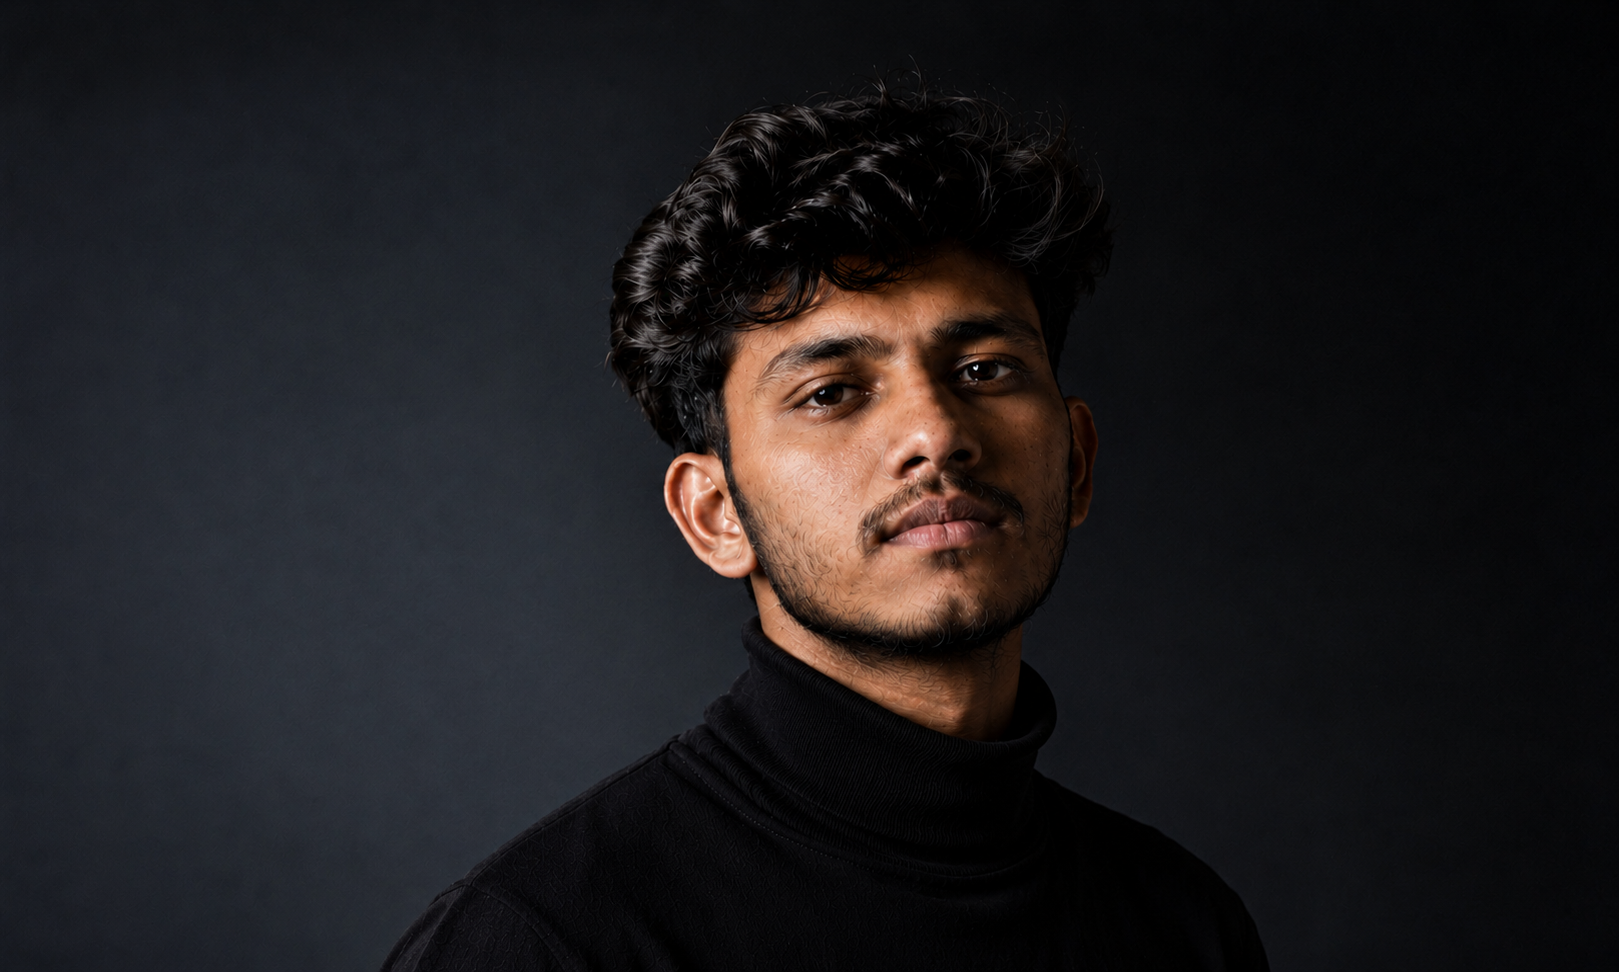
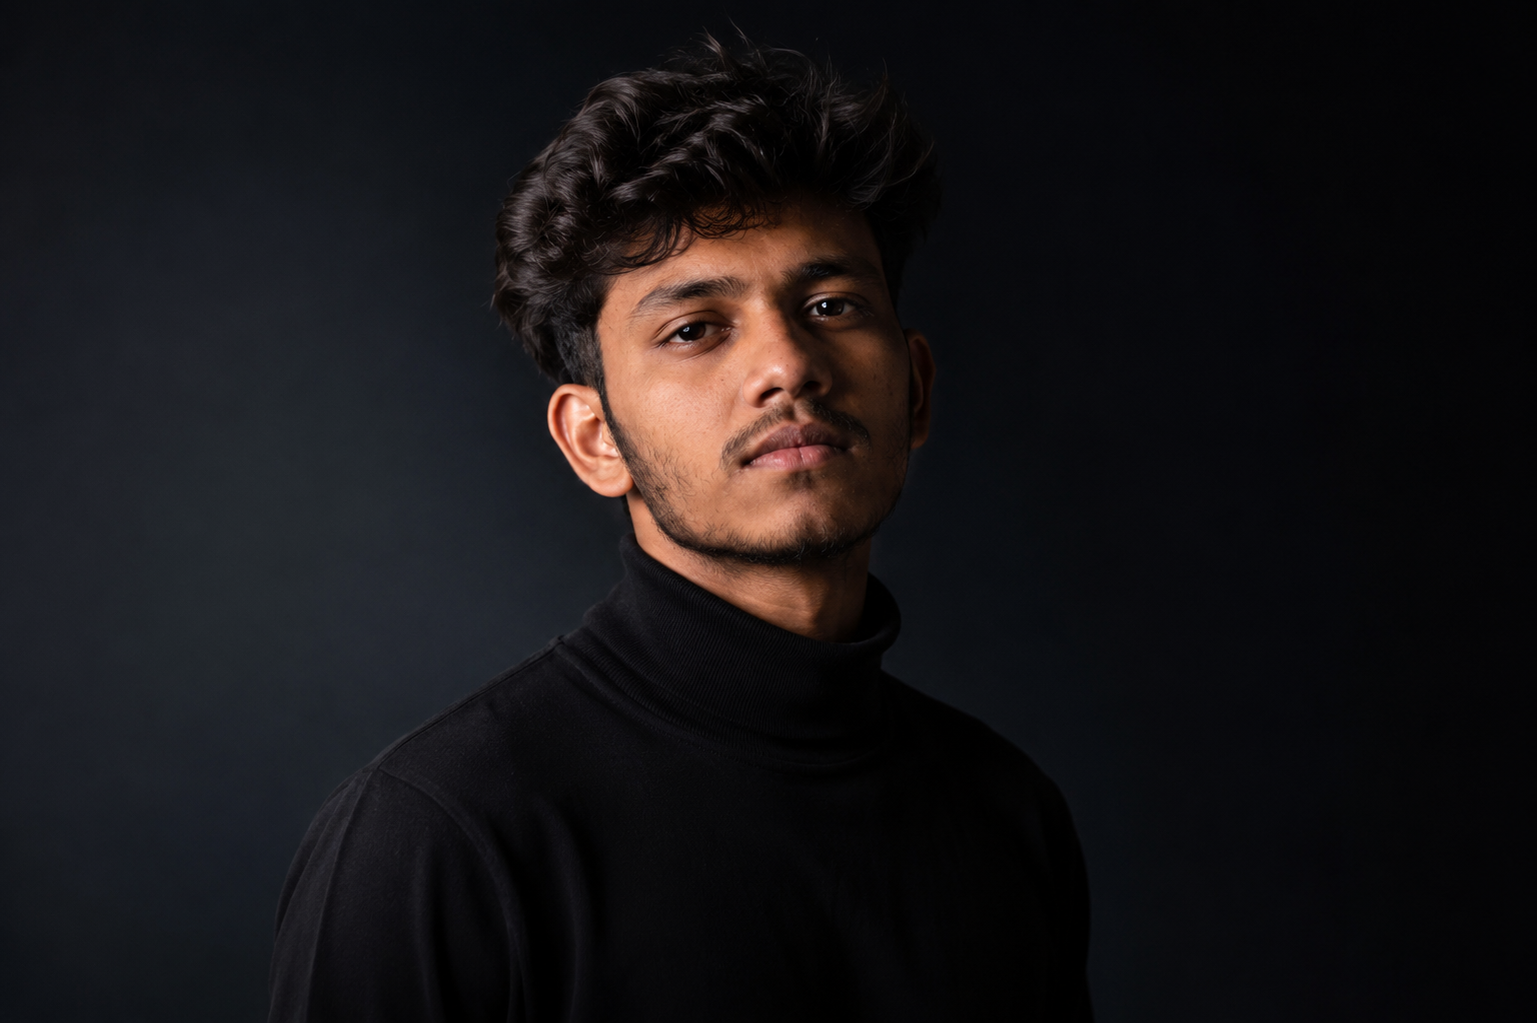
fix: rebrand to haries, paper navbar bg, Services link, always-white info bar, title Haries|portfolio

Changed region(s): [[0.1874, 0.0617, 0.6871, 1.0], [0.6246, 0.7716, 0.7183, 0.8333], [0.6246, 0.1543, 0.6558, 0.1852]]

diff --git a/src/components/layout/Navbar.jsx b/src/components/layout/Navbar.jsx
@@ -1,67 +1,46 @@
 /**
- * Navbar component — Fixed, transparent.
+ * Navbar component — Fixed with paper background.
  *
- * From Framer AI Audit:
- * ─ Fixed at the top, full-width
- * ─ Desktop/tablet: logo + primary links + menu control
- * ─ Phone: logo + menu control (links hidden)
- * ─ Enters from 60px above, starts transparent
+ * From reference screenshot:
+ * ─ Solid paper (rgb(245,245,245)) background strip at top
+ * ─ "haries®" logo left, dark text
+ * ─ "Services", "Works", "Contact" links centered, dark text
+ * ─ Dark hamburger button on the right
+ * ─ Text stays dark at all times (paper bg is always behind)
+ * ─ Enters from 60px above, delayed by 2 seconds
  * ─ Spring: stiffness 400, damping 80, mass 1
- * ─ Delayed by 2 seconds
- *
- * From Screenshot 224146.png (final state):
- * ─ "norell" logo with ® superscript, ~24px, weight 600, left-aligned
- * ─ Nav links: "About", "Works", "Contact" — ~16px, weight 500, spaced ~60-80px apart
- * ─ Hamburger button: dark near-black rounded rectangle (~48×40px), border-radius ~12px
- * ─ Three horizontal lines inside the hamburger, white, ~18px wide
- * ─ Navbar padding: ~20px vertical (total height ~80px with padding)
- * ─ Side padding matches container: 30px desktop, 20px mobile
- *
- * From Screenshot 223831.png (initial state — light bg):
- * ─ Logo and links are dark (ink color) on light background
- * ─ Hamburger button is dark with white lines
- *
- * From Screenshot 224146.png (final state — dark hero image):
- * ─ Logo and links become white on dark background
- * ─ Hamburger button stays dark with white lines
  */
 import { motion } from "framer-motion";
 import { navbarEntrance } from "@/animations/variants";
 
-const Navbar = ({ isDark = false }) => {
+const Navbar = () => {
   return (
     <motion.nav
       variants={navbarEntrance}
       initial="hidden"
       animate="visible"
-      className="fixed top-0 left-0 right-0 z-50"
+      className="fixed top-0 left-0 right-0 z-50 bg-paper"
     >
       <div className="mx-auto w-full max-w-content px-5 md:px-[30px]">
         <div className="flex items-center justify-between py-5 md:py-6">
           {/* Logo */}
           <a
             href="/"
-            className={`text-[22px] md:text-[24px] font-semibold tracking-tight transition-colors duration-500 ${
-              isDark ? "text-white" : "text-ink"
-            }`}
+            className="text-[22px] md:text-[24px] font-semibold tracking-tight text-ink"
           >
-            norell
+            haries
             <sup className="text-[10px] md:text-[11px] font-medium -top-[10px] ml-[1px]">
               ®
             </sup>
           </a>
 
           {/* Desktop/Tablet Navigation Links */}
-          <div
-            className={`hidden md:flex items-center gap-[56px] text-[16px] font-medium transition-colors duration-500 ${
-              isDark ? "text-white" : "text-ink"
-            }`}
-          >
+          <div className="hidden md:flex items-center gap-[56px] text-[16px] font-medium text-ink">
             <a
-              href="#about"
+              href="#services"
               className="hover:text-accent transition-colors duration-500"
             >
-              About
+              Services
             </a>
             <a
               href="#works"

diff --git a/src/sections/Hero.jsx b/src/sections/Hero.jsx
@@ -276,8 +276,8 @@ const Hero = () => {
           </motion.p>
 
           {/* ® Symbol — desktop: upper-right area ~55% down
-              tablet: bottom-right above "norell" text
-              phone: right side, above "norell" */}
+              tablet: bottom-right above "haries" text
+              phone: right side, above "haries" */}
           <motion.span
             variants={heroTextChild}
             className="absolute text-white font-light select-none
@@ -288,7 +288,7 @@ const Hero = () => {
             ®
           </motion.span>
 
-          {/* Large "norell" display text — lower portion of hero
+          {/* Large "haries" display text — lower portion of hero
               Desktop: ~220px, fills ~85% container width
               Tablet: ~120px
               Phone: ~60px
@@ -300,7 +300,7 @@ const Hero = () => {
               fontSize: "clamp(60px, 17.5vw, 240px)",
             }}
           >
-            norell
+            haries
           </motion.h1>
         </div>
       </motion.div>
@@ -310,8 +310,7 @@ const Hero = () => {
         <div className="mx-auto w-full max-w-content px-5 md:px-[30px]">
           {/* Desktop / Tablet — horizontal row */}
           <div
-            className={`hidden md:flex items-center justify-between py-5 lg:py-6 text-[14px] font-medium transition-colors duration-700 ${isRevealed ? "text-white" : "text-ink"
-              }`}
+            className="hidden md:flex items-center justify-between py-5 lg:py-6 text-[14px] font-medium text-white"
           >
             <span>Available For Work</span>
             <span className="flex items-center gap-3">
@@ -341,8 +340,7 @@ const Hero = () => {
 
           {/* Mobile — stacked vertically, center-aligned */}
           <div
-            className={`flex md:hidden flex-col items-center gap-2 py-4 text-[13px] font-medium transition-colors duration-700 ${isRevealed ? "text-white" : "text-ink"
-              }`}
+            className="flex md:hidden flex-col items-center gap-2 py-4 text-[13px] font-medium text-white"
           >
             <span>Available For Work</span>
             <span className="flex items-center gap-2.5">

diff --git a/index.html b/index.html
@@ -4,8 +4,8 @@
     <meta charset="UTF-8" />
     <link rel="icon" type="image/svg+xml" href="/favicon.svg" />
     <meta name="viewport" content="width=device-width, initial-scale=1.0" />
-    <meta name="description" content="Norell — Premium creative agency portfolio. Creating visual narratives that speak to the heart of brands." />
-    <title>Norell® — Creative Studio</title>
+    <meta name="description" content="Haries — Premium creative portfolio. Creating visual narratives that speak to the heart of brands." />
+    <title>Haries|portfolio</title>
 
     <!-- Inter font from Google Fonts — weights 400, 500, 600 -->
     <link rel="preconnect" href="https://fonts.googleapis.com" />

diff --git a/src/App.jsx b/src/App.jsx
@@ -1,23 +1,10 @@
-import { useState, useEffect } from "react";
 import Navbar from "@/components/layout/Navbar";
 import Hero from "@/sections/Hero";
 
 function App() {
-  // Track whether the hero image has been revealed
-  // so the navbar can switch to light text mode
-  const [heroRevealed, setHeroRevealed] = useState(false);
-
-  useEffect(() => {
-    // Sync with hero reveal timing (2.5s delay + a little buffer)
-    const timer = setTimeout(() => {
-      setHeroRevealed(true);
-    }, 2800);
-    return () => clearTimeout(timer);
-  }, []);
-
   return (
     <>
-      <Navbar isDark={heroRevealed} />
+      <Navbar />
       <main>
         <Hero />
       </main>
